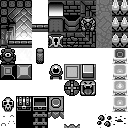
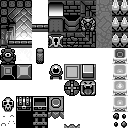
Create Better Rock Debris
renamed DebrisRock to ProjectileDebrisRock.
updated ProjectileDebrisRock sprite, ObjAnimList, SetType() path.
removed DebrisBlood value from ObjType enum.

updated ScatterDebris() to spawn ProjectileDebrisRocks around room.
updated CleanupRoom() to check ProjectileDebrisRock overlaps with roomObjs.
overlapping rock debris is released / deleted.

updated SpawnEntity() to randomly choose which rock sprite is used in DungeonSheet.
updated CollapseDungeonDoor() with path for ProjectileDebrisRock.
playtested, working as expected.

improved rock debris sprites.
updated InteractActor() to handle kicking of rock debris.
if rock debris' magnitude is 0, inherit the actor's magnitude.
this causes the rock to travel in the actor's moving direction upon initial collision.
playtested, working as expected.

Changed region(s): [[0.75, 0.875, 1.0, 1.0]]

diff --git a/GameClasses/Functions_Room.cs b/GameClasses/Functions_Room.cs
@@ -488,21 +488,17 @@ namespace DungeonRun
         }
 
         public static void ScatterDebris(Room Room)
-        {   //randomly place debris at each floor tile position
+        {   
             for (i = 0; i < Pool.floorCount; i++)
             {
                 if (Pool.floorPool[i].visible)
                 {
-                    if (Functions_Random.Int(0, 100) > 80)
-                    {
-                        objRef = Functions_Pool.GetRoomObj();
-                        Functions_Movement.Teleport(objRef.compMove,
-                            Pool.floorPool[i].position.X + Functions_Random.Int(-8, 8),
-                            Pool.floorPool[i].position.Y + Functions_Random.Int(-8, 8));
-                        //randomly choose the type of debris to create
-                        if (Functions_Random.Int(0, 100) > 50)
-                        { Functions_GameObject.SetType(objRef, ObjType.DebrisBlood); }
-                        else { Functions_GameObject.SetType(objRef, ObjType.DebrisRock); }
+                    if (Functions_Random.Int(0, 100) > 90)
+                    {   //randomly place rock debris in room
+                        Functions_Entity.SpawnEntity(ObjType.ProjectileDebrisRock,
+                            Pool.floorPool[i].position.X + Functions_Random.Int(-4, 4),
+                            Pool.floorPool[i].position.Y + Functions_Random.Int(-4, 4),
+                            Direction.Down);
                     }
                 }
             }
@@ -580,6 +576,9 @@ namespace DungeonRun
 
                 if (checkOverlap)
                 {
+
+                    #region Check RoomObjs Overlap
+
                     for (j = 0; j < Pool.roomObjCount; j++)
                     {
                         objB = Pool.roomObjPool[j];
@@ -589,14 +588,8 @@ namespace DungeonRun
                             if (objB.group == ObjGroup.Wall)
                             {   //prevent walls from overlapping doors, torches, and pillars
                                 if (objA.group == ObjGroup.Door) { removeObjB = true; }
-                                if (objA.type == ObjType.WallTorch) { removeObjB = true; }
-                                if (objA.type == ObjType.WallPillar) { removeObjB = true; }
-                            }
-                            else if (objB.type == ObjType.DebrisBlood
-                                || objB.type == ObjType.DebrisRock)
-                            {   //prevent debris from overlapping various objects
-                                if (objA.group == ObjGroup.Wall) { removeObjB = true; }
-                                else if (objA.group == ObjGroup.Object) { removeObjB = true; }
+                                else if (objA.type == ObjType.WallTorch) { removeObjB = true; }
+                                else if (objA.type == ObjType.WallPillar) { removeObjB = true; }
                             }
                             if (removeObjB)
                             {   //check that objA and objB actually overlap
@@ -605,6 +598,39 @@ namespace DungeonRun
                             }
                         }
                     }
+
+                    #endregion
+
+
+                    #region Check Entitiy Overlaps
+
+                    for (j = 0; j < Pool.entityCount; j++)
+                    {
+                        objB = Pool.entityPool[j];
+                        if (objB.active)
+                        {
+                            removeObjB = false;
+                            if (objB.type == ObjType.ProjectileDebrisRock)
+                            {   //remove debris that overlaps with most objects
+                                if (objA.group == ObjGroup.Object) { removeObjB = true; }
+                                else if (objA.group == ObjGroup.Wall) { removeObjB = true; }
+                                else if (objA.group == ObjGroup.Door) { removeObjB = true; }
+                                else if (objA.group == ObjGroup.Draggable) { removeObjB = true; }
+                                else if (objA.group == ObjGroup.Chest) { removeObjB = true; }
+                                else if (objA.group == ObjGroup.Liftable) { removeObjB = true; }
+                                //keep debris on conveyor belts
+                                if (objA.type == ObjType.ConveyorBeltOn) { removeObjB = false; }
+                            }
+                            if (removeObjB)
+                            {   //check that objA and objB actually overlap
+                                if (objA.compCollision.rec.Intersects(objB.compCollision.rec))
+                                { Functions_Pool.Release(objB); }
+                            }
+                        }
+                    }
+
+                    #endregion
+
                 }
             }
 

diff --git a/GameClasses/Functions_GameObject.cs b/GameClasses/Functions_GameObject.cs
@@ -221,12 +221,6 @@ namespace DungeonRun
                 Obj.compSprite.zOffset = -32; //sort low, but over floor
                 Obj.compCollision.blocking = false;
             }
-            else if (Type == ObjType.DebrisBlood || Type == ObjType.DebrisRock)
-            {
-                Obj.compCollision.blocking = false;
-                Obj.compSprite.zOffset = -32; //sort low, but over floor
-                Obj.direction = Direction.Down; //always down
-            }
 
             #endregion
 
@@ -503,6 +497,7 @@ namespace DungeonRun
 
             else if (Type == ObjType.ProjectileSword)
             {
+                Obj.compSprite.texture = Assets.mainSheet;
                 Obj.compSprite.zOffset = 16;
                 Obj.group = ObjGroup.Projectile;
                 Obj.lifetime = 18; //in frames
@@ -514,6 +509,7 @@ namespace DungeonRun
             }
             else if (Type == ObjType.ProjectileFireball)
             {
+                Obj.compSprite.texture = Assets.mainSheet;
                 Obj.compSprite.zOffset = 16;
                 Obj.compCollision.offsetX = -5; Obj.compCollision.offsetY = -5;
                 Obj.compCollision.rec.Width = 10; Obj.compCollision.rec.Height = 10;
@@ -526,6 +522,7 @@ namespace DungeonRun
             }
             else if (Type == ObjType.ProjectileBomb)
             {
+                Obj.compSprite.texture = Assets.mainSheet;
                 Obj.compSprite.zOffset = -4; //sort to floor
                 Obj.compCollision.offsetX = -5; Obj.compCollision.offsetY = -5;
                 Obj.compCollision.rec.Width = 10; Obj.compCollision.rec.Height = 10;
@@ -536,6 +533,7 @@ namespace DungeonRun
             }
             else if (Type == ObjType.ProjectileExplosion)
             {
+                Obj.compSprite.texture = Assets.mainSheet;
                 Obj.compSprite.zOffset = 16;
                 Obj.compCollision.offsetX = -12; Obj.compCollision.offsetY = -12;
                 Obj.compCollision.rec.Width = 24; Obj.compCollision.rec.Height = 24;
@@ -547,6 +545,7 @@ namespace DungeonRun
             }
             else if (Type == ObjType.ProjectileArrow)
             {
+                Obj.compSprite.texture = Assets.mainSheet;
                 Obj.compSprite.zOffset = 16;
                 Obj.compCollision.offsetX = -5; Obj.compCollision.offsetY = -5;
                 Obj.compCollision.rec.Width = 10; Obj.compCollision.rec.Height = 10;
@@ -570,6 +569,7 @@ namespace DungeonRun
             }
             else if (Type == ObjType.ProjectileSpikeBlock)
             {
+                Obj.compSprite.texture = Assets.mainSheet;
                 Obj.compSprite.zOffset = -7;
                 Obj.compCollision.offsetX = -7; Obj.compCollision.offsetY = -7;
                 Obj.compCollision.rec.Width = 14; Obj.compCollision.rec.Height = 14;
@@ -582,6 +582,22 @@ namespace DungeonRun
                 Obj.compMove.moveable = true;
                 Obj.compMove.grounded = false; //in air
             }
+
+            else if (Type == ObjType.ProjectileDebrisRock)
+            {
+                Obj.compSprite.zOffset = -24; //sort low, but over floor
+                Obj.compSprite.cellSize.X = 8; Obj.compSprite.cellSize.Y = 8; //nonstandard size
+                Obj.compCollision.offsetX = -8; Obj.compCollision.offsetY = -8;
+                Obj.compCollision.rec.Width = 8; Obj.compCollision.rec.Height = 8;
+                Obj.group = ObjGroup.Projectile;
+                Obj.lifetime = 0; //lasts for life of room
+                Obj.compCollision.blocking = false;
+                Obj.compMove.moveable = true;
+                Obj.compMove.grounded = true; //in air
+                Obj.direction = Direction.Down; //always faces down
+            }
+
+
 
             #endregion
 
@@ -728,9 +744,8 @@ namespace DungeonRun
                 Obj.compCollision.blocking = false;
             }
             else if(Obj.group == ObjGroup.Projectile)
-            {   //all projectiles do not block + are on mainsheet
+            {   //all projectiles do not block
                 Obj.compCollision.blocking = false;
-                Obj.compSprite.texture = Assets.mainSheet;
             }
 
             SetRotation(Obj);

diff --git a/GameClasses/Functions_Interaction.cs b/GameClasses/Functions_Interaction.cs
@@ -302,12 +302,22 @@ namespace DungeonRun
 
                 if (Obj.group == ObjGroup.Projectile)
                 {
-                    Functions_Battle.Damage(Actor, Obj);
-                    if (Obj.type == ObjType.ProjectileSword)
+                    if (Obj.type == ObjType.ProjectileDebrisRock)
+                    {   //if the rock isn't moving, actor just collided with it, inherit actor's magnitude
+                        if (Obj.compMove.magnitude.X == 0) //kick rock on X
+                        { Obj.compMove.magnitude.X = Actor.compMove.magnitude.X * 7.0f; }
+                        if (Obj.compMove.magnitude.Y == 0) //kick rock on Y
+                        { Obj.compMove.magnitude.Y = Actor.compMove.magnitude.Y * 7.0f; }
+                    }
+                    else
                     {
-                        if (Obj.lifeCounter == 1)
-                        {   //if sword projectile is brand new, spawn hit particle
-                            Functions_Entity.SpawnEntity(ObjType.ParticleHitSparkle, Obj);
+                        Functions_Battle.Damage(Actor, Obj);
+                        if (Obj.type == ObjType.ProjectileSword)
+                        {
+                            if (Obj.lifeCounter == 1)
+                            {   //if sword projectile is brand new, spawn hit particle
+                                Functions_Entity.SpawnEntity(ObjType.ParticleHitSparkle, Obj);
+                            }
                         }
                     }
                 }
@@ -506,6 +516,18 @@ namespace DungeonRun
 
                 #endregion
 
+
+                #region Rock Debris
+
+                else if (Projectile.type == ObjType.ProjectileDebrisRock)
+                {   //revert to previous position (treat as a blocking interaction)
+                    Projectile.compMove.newPosition.X = Projectile.compMove.position.X;
+                    Projectile.compMove.newPosition.Y = Projectile.compMove.position.Y;
+                }
+
+                #endregion
+
+
             }
             //Handle Non-Blocking Interactions (with projectiles & pickups)
             else
@@ -590,6 +612,9 @@ namespace DungeonRun
                 else if (RoomObj.type == ObjType.DoorTrap)
                 {   //trap doors push actors in the door's facing direction, into the room
                     //projectiles should not move thru this door - bounce or be destroyed
+                    //revert to previous position (treat as a blocking interaction)
+                    Projectile.compMove.newPosition.X = Projectile.compMove.position.X;
+                    Projectile.compMove.newPosition.Y = Projectile.compMove.position.Y;
                     if (Projectile.type == ObjType.ProjectileSpikeBlock)
                     { BounceSpikeBlock(Projectile); }
                     else { KillProjectileUponCollision(Projectile); }
@@ -606,12 +631,13 @@ namespace DungeonRun
         {   //update the door roomObject, change to doorBombed, play soundfx
             Functions_GameObject.SetType(Door, ObjType.DoorOpen);
             Assets.Play(Assets.sfxShatter);
-            //create a debris roomObj at door position
-            objRef = Functions_Pool.GetRoomObj();
-            Functions_Movement.Teleport(objRef.compMove,
+
+            //create a debris rock projectile at door position
+            Functions_Entity.SpawnEntity(ObjType.ProjectileDebrisRock,
                 Door.compSprite.position.X,
-                Door.compSprite.position.Y);
-            Functions_GameObject.SetType(objRef, ObjType.DebrisRock);
+                Door.compSprite.position.Y,
+                Direction.Down);
+
             //draw attention to the collapsing door
             Functions_Entity.SpawnEntity(ObjType.ParticleAttention,
                 Door.compSprite.position.X, Door.compSprite.position.Y, Direction.Down);

diff --git a/GameClasses/Enumerators.cs b/GameClasses/Enumerators.cs
@@ -61,7 +61,7 @@ namespace DungeonRun
         Exit, ExitPillarLeft, ExitPillarRight, ExitLightFX,
         DoorOpen, DoorBombable, DoorBoss, DoorTrap, DoorShut, DoorFake,
         WallStraight, WallStraightCracked, WallInteriorCorner, WallExteriorCorner, WallPillar, WallStatue, WallTorch,
-        BossDecal, DebrisBlood, DebrisRock,
+        BossDecal, 
         //Editor Room Objects (hand-placed)
         PitAnimated, Bridge, PitTop, PitBottom, PitTrap, 
 
@@ -88,9 +88,9 @@ namespace DungeonRun
         PickupRupee, PickupHeart, PickupMagic, PickupArrow, PickupBomb, 
         //Projectiles - collide with actors
         ProjectileSword, ProjectileFireball, ProjectileBomb, ProjectileExplosion, ProjectileArrow,
-        ProjectileSpikeBlock,
+        ProjectileSpikeBlock, ProjectileDebrisRock,
         //Particles - small
-        ParticleDashPuff, ParticleSmokePuff, ParticleHitSparkle, ParticlePitAnimation,
+        ParticleDashPuff, ParticleSmokePuff, ParticleHitSparkle, ParticlePitAnimation, 
         //Particles - map
         ParticleMapFlag, ParticleMapWave, ParticleMapCampfire,
         //

diff --git a/GameClasses/Functions_Entity.cs b/GameClasses/Functions_Entity.cs
@@ -217,6 +217,15 @@ namespace DungeonRun
             //bombs are pushed, and slide into a resting position
             if (Type == ObjType.ProjectileBomb)
             { Functions_Movement.Push(obj.compMove, obj.compMove.direction, 10.0f); }
+
+            //some projectiles get their current frame randomly assigned (for variation)
+            if(Type == ObjType.ProjectileDebrisRock)
+            {   //is assigned 15,15 - randomize down to 14,14
+                List <Byte4> rockFrame = new List<Byte4> { new Byte4(15, 15, 0, 0) };
+                if (Functions_Random.Int(0, 100) > 50) { rockFrame[0].X = 14; }
+                if (Functions_Random.Int(0, 100) > 50) { rockFrame[0].Y = 14; }
+                obj.compAnim.currentAnimation = rockFrame;
+            }
         }
 
 

diff --git a/GameClasses/Functions_GameObjectAnimList.cs b/GameClasses/Functions_GameObjectAnimList.cs
@@ -66,10 +66,7 @@ namespace DungeonRun
 
                 //BossDecal
                 new List<Byte4> { new Byte4(1, 3, 0, 0) },
-                //DebrisBlood
-                new List<Byte4> { new Byte4(7, 7, 0, 0) },
-                //DebrisRock
-                new List<Byte4> { new Byte4(6, 7, 0, 0) },
+                
 
                 #endregion
 
@@ -207,6 +204,8 @@ namespace DungeonRun
                 new List<Byte4> { new Byte4(4, 7, 0, 0) },
                 //ProjectileSpikeBlock
                 new List<Byte4> { new Byte4(0, 10, 0, 0) },
+                //ProjectileDebrisRock
+                new List<Byte4> { new Byte4(15, 15, 0, 0) },
 
                 #endregion
 
